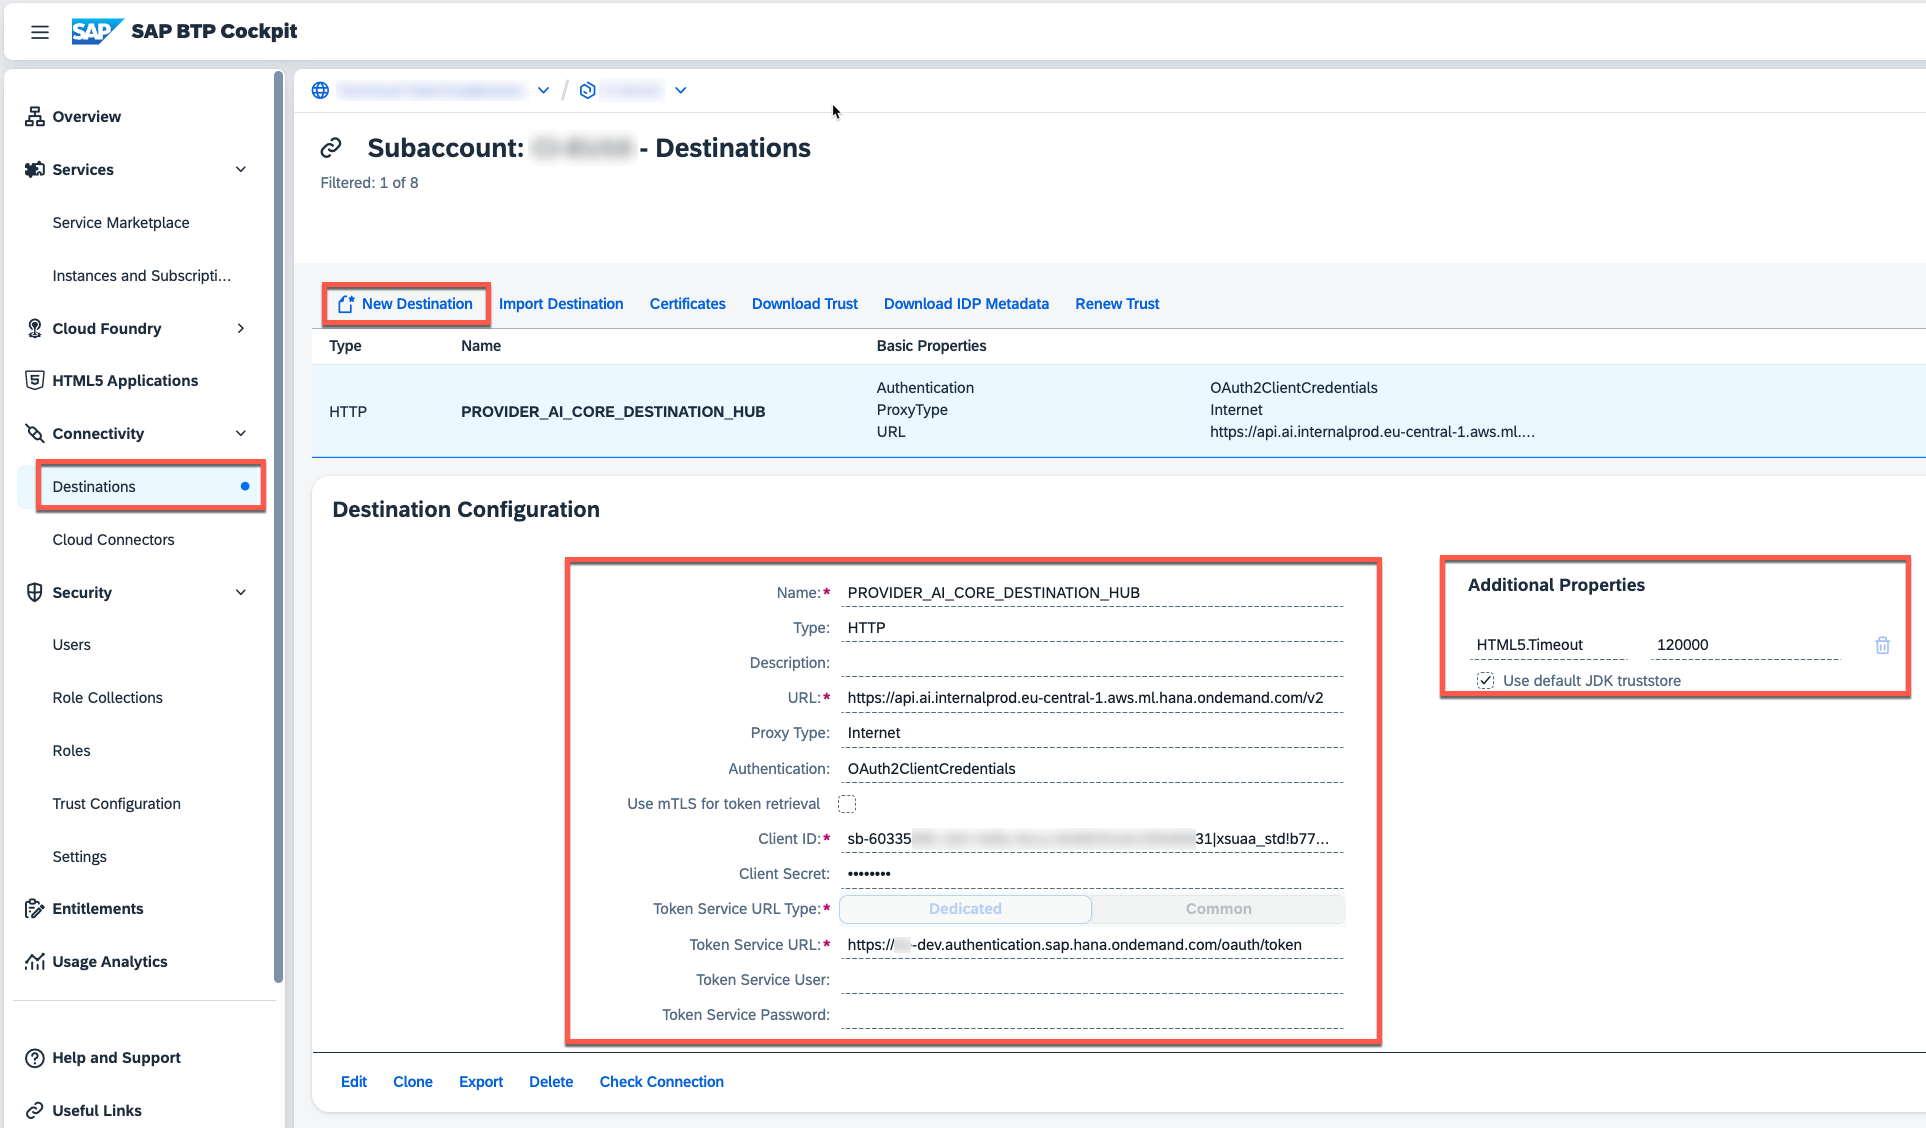
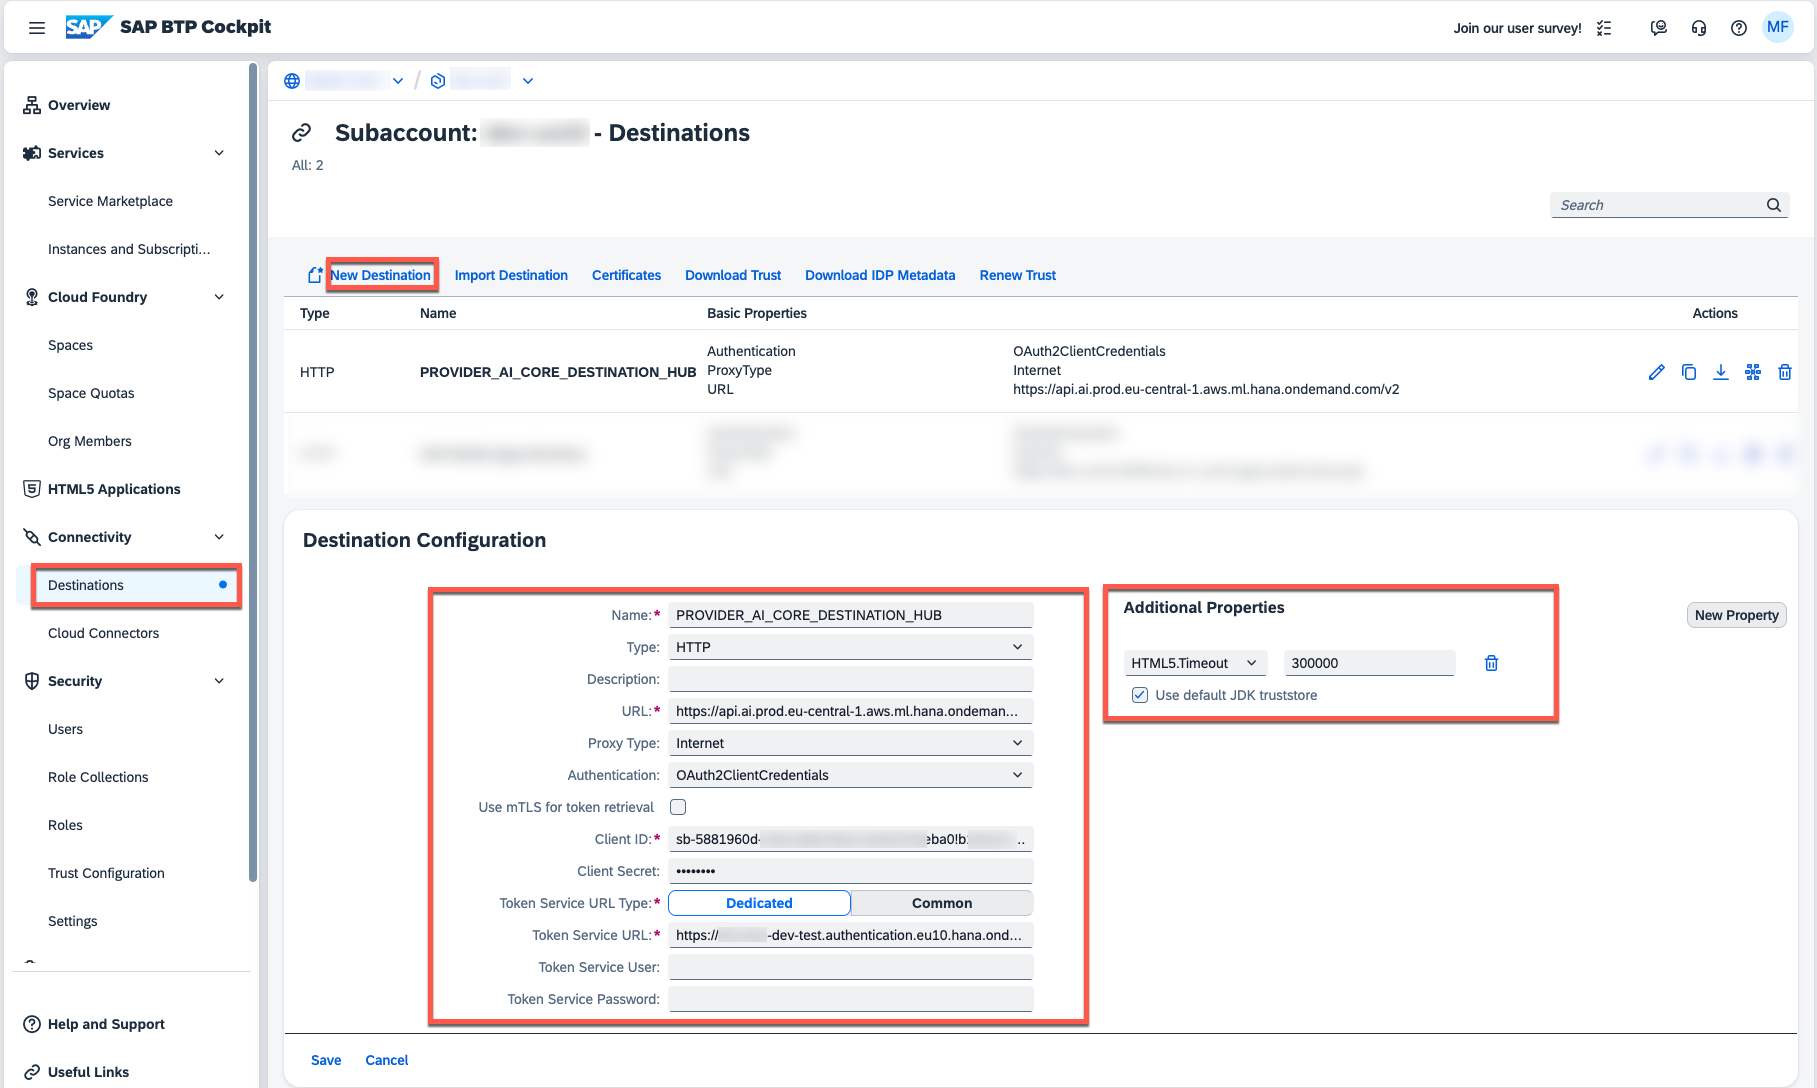
Update docu after end-to-end testing

diff --git a/docs/tutorial/2-setup/3-SAPHANACloud.md b/docs/tutorial/2-setup/3-SAPHANACloud.md
@@ -8,12 +8,45 @@ To do so, please follow the respective SAP HANA Academy tutorial and official SA
 
 [SAP Help | Map an SAP HANA Database to another Environment Context](https://help.sap.com/docs/hana-cloud/sap-hana-cloud-administration-guide/map-sap-hana-database-to-another-environment-context)
 
-## Create a new Instance
+## Setup your preferred SAP BTP Runtime
 
-Create a Subscription of the SAP HANA Cloud Tools, assign the role collections to your user and create a new SAP HANA Cloud instance using the Subscription interface. Please ensure this SAP HANA Cloud Instance is shared with your Kyma Cluster/Namespace or Cloud Foundry Org/Space. 
+Before you setup a SAP HANA Cloud instance or map an existing instance, please ensure you have setup your preferred runtime. For this sample scenario, you can choose between the SAP BTP, Cloud Foundry or SAP BTP, Kyma Runtime. If you follow the Cloud Foundry path, please make sure to also create a **Space** after setting up the runtime. The Kyma Runtime comes with a **default** namespace. 
 
-## Share an existing Instance
+> **Important** - In a Free Tier scenario, please ensure to select the **free** service plan! 
 
-Switch to the SAP BTP Subaccount hosting your SAP HANA Cloud instance and use the SAP HANA Cloud Tools, to share the instance with your new Cloud Foundry Org/Space respectively your Kyma Cluster/Namespace. 
+[<img src="./images/BTP_Runtime01.png" height="200"/>](./images/BTP_Runtime01.png?raw=true)
+[<img src="./images/BTP_Runtime02.png" height="200"/>](./images/BTP_Runtime02.png?raw=true)
+[<img src="./images/BTP_Runtime03.png" height="200"/>](./images/BTP_Runtime03.png?raw=true)
+[<img src="./images/BTP_Runtime04.png" height="200"/>](./images/BTP_Runtime04.png?raw=true)
 
 
+## Create a new SAP HANA Cloud Instance 
+
+Create a Subscription of the SAP HANA Cloud Tools, assign the role collections to your user and create a new SAP HANA Cloud instance using the Subscription interface. After creating the SAP HANA Cloud instance, please continue with the next step to share / map it to your SAP BTP, Cloud Foundry or SAP BTP, Kyma Runtime. 
+
+[<img src="./images/HC_CreateInstance01.png" height="200"/>](./images/HC_CreateInstance01.png?raw=true)
+[<img src="./images/HC_CreateInstance02.png" height="200"/>](./images/HC_CreateInstance02.png?raw=true)
+[<img src="./images/HC_CreateInstance03.png" height="200"/>](./images/HC_CreateInstance03.png?raw=true)
+[<img src="./images/HC_CreateInstance04.png" height="200"/>](./images/HC_CreateInstance04.png?raw=true)
+[<img src="./images/HC_CreateInstance05.png" height="200"/>](./images/HC_CreateInstance05.png?raw=true)
+[<img src="./images/HC_CreateInstance06.png" height="200"/>](./images/HC_CreateInstance06.png?raw=true)
+[<img src="./images/HC_CreateInstance07.png" height="200"/>](./images/HC_CreateInstance07.png?raw=true)
+[<img src="./images/HC_CreateInstance08.png" height="200"/>](./images/HC_CreateInstance08.png?raw=true)
+[<img src="./images/HC_CreateInstance09.png" height="200"/>](./images/HC_CreateInstance09.png?raw=true)
+[<img src="./images/HC_CreateInstance10.png" height="200"/>](./images/HC_CreateInstance010.png?raw=true)
+[<img src="./images/HC_CreateInstance11.png" height="200"/>](./images/HC_CreateInstance011.png?raw=true)
+
+
+## Share/Map an existing SAP HANA Cloud Instance
+
+Switch to the SAP BTP Subaccount hosting your SAP HANA Cloud instance and use the SAP HANA Cloud Tools, to share the instance with your new Cloud Foundry Org/Space respectively your Kyma Cluster/Namespace. Click [here](https://help.sap.com/docs/hana-cloud/sap-hana-cloud-administration-guide/map-sap-hana-database-to-another-environment-context) for more details on how to setup the respective mapping. 
+
+[<img src="./images/HC_MapInstance01.png" height="200"/>](./images/HC_MapInstance01.png?raw=true)
+[<img src="./images/HC_MapInstance02.png" height="200"/>](./images/HC_MapInstance02.png?raw=true)
+[<img src="./images/HC_MapInstance03.png" height="200"/>](./images/HC_MapInstance03.png?raw=true)
+[<img src="./images/HC_MapInstance04.png" height="200"/>](./images/HC_MapInstance04.png?raw=true)
+[<img src="./images/HC_MapInstance05.png" height="200"/>](./images/HC_MapInstance05.png?raw=true)
+[<img src="./images/HC_MapInstance06.png" height="200"/>](./images/HC_MapInstance06.png?raw=true)
+[<img src="./images/HC_MapInstance07.png" height="200"/>](./images/HC_MapInstance07.png?raw=true)
+[<img src="./images/HC_MapInstance08.png" height="200"/>](./images/HC_MapInstance08.png?raw=true)
+[<img src="./images/HC_MapInstance09.png" height="200"/>](./images/HC_MapInstance09.png?raw=true)

diff --git a/docs/tutorial/4-test/3-PushSampleMails.md b/docs/tutorial/4-test/3-PushSampleMails.md
@@ -4,13 +4,15 @@ In this chapter you will learn, how SaaS Subscribers can push sample mails to th
 
 1. Find the provided **http** sample file **requests-btp.http** ([click here](../../../code/test/http/requests-btp.http)), containing a few test mails for processing. 
    
+   > **Hint** - You might need to install the **REST Client** extension in your development environment!
+   
 2. Cope and rename the file to **requests-btp-private.http** to ensure that your credentials are not accidentally being committed to GitHub. 
 
     [<img src="./images/TEST_PrivateFile.png" width="300"/>](./images/TEST_PrivateFile.png?raw=true)
 
-3. Update the variables in the very beginning of the **http** test file. In a multitenant scenario, you can find the required values in the **Service Binding** which you created in the previous step of this section. 
+3. Update the variables in the very beginning of the **http** test file. In a multitenant scenario, you can find the required values in the **Service Binding** which you created in the **Create API Service** ([click here](./2-CreateAPIService.md)) chapter of this tutorial. 
    
-   > **Important** - In a single tenant setup, you can just use an existing Service Binding or new Service Key of your **xsuaa** instance and use the default **Cloud Foundry Route** or **Virtual Service** created for your CAP Application as *btpAppHostname* value. 
+   > **Important** - In a single tenant setup, you can just use an existing Service Binding or new Service Key of your **xsuaa** service instance and use the default **Cloud Foundry Route** or **Kyma Virtual Service** created for your CAP Application as *btpAppHostname* value. 
 
     ```md
     @xsuaaHostname = <uaa.url>
@@ -35,15 +37,15 @@ In this chapter you will learn, how SaaS Subscribers can push sample mails to th
     &grant_type=client_credentials
     ```
 
-5. Once you successfully retrieved a token issued by XSUAA, please scroll down and execute the **ADD MAILS** request. The request will automatically inject the token retrieved from XSUAA. 
+5. Once you successfully retrieved a token issued by XSUAA, please scroll down and execute the **ADD MAILS I** request. The processing will take a while, so please wait until the request returns a result. The request will automatically inject the token retrieved from XSUAA. 
    
    > **Important** - For single-tenant scenarios, please use the **odata/v4/mail-insights** path instead of the **rest/api/mail-insights** path as indicated below. 
 
     ```http
-    ### ADD MAILS
+    ### ADD MAILS I
     @token = {{getXsuaaToken.response.body.$.access_token}}
 
-    # @name addMails
+    # @name addMailsI
     POST {{btpAppHostname}}/rest/api/mail-insights/addMails
     content-type: application/json
     Authorization: Bearer {{token}}
@@ -58,5 +60,6 @@ In this chapter you will learn, how SaaS Subscribers can push sample mails to th
         ...
     ```
 
-6. Once the sample e-mails have been processes successfully, you should see them within your SaaS application. Furthermore, check the chapter on **Extending** the solution to learn how to check the processed e-mails within your PostgreSQL database. 
+6. Continue with the **ADD MAILS II** and **ADD MAILS III** requests to add further sample mails to your application. Injecting the sample mails has been split into three parts, given the token limit of the Large Language Model being used. Please ensure to run the three **ADD MAILS** requests sequentially. 
 
+7. Once all sample e-mails have been processes successfully, please continue with the next chapter to assign the required role collection before opening the GenAI Mail Insights application.

diff --git a/docs/tutorial/2-setup/4-generativeAIhub.md b/docs/tutorial/2-setup/4-generativeAIhub.md
@@ -12,17 +12,17 @@ The generative AI hub which is part of the SAP AI Core offering, allows you to c
 
 2. In your subaccount, please create a new service instance for the SAP AI Core **sap-internal** service entitlement. 
 
->**Hint** - In our scenario we are using the **Other** environment type, as we are consuming the SAP AI Core APIs via a dedicated destination. Alternatively, you can also use the **Cloud Foundry** or **Kyma** environment and **bind** the service instance. 
+    > **Hint** - In our scenario we are using the **Other** environment type, as we are consuming the SAP AI Core APIs via a dedicated destination. Alternatively, you can also use the **Cloud Foundry** or **Kyma** environment and **bind** the service instance. 
 
-  [<img src="./images/GAH_CreateInstance01.png" width="400"/>](./images/GAH_CreateInstance01.png?raw=true)
+    [<img src="./images/GAH_CreateInstance01.png" width="500"/>](./images/GAH_CreateInstance01.png?raw=true)
 
 3. Create a new **Service Binding** for the SAP AI Core **sap-internal** service instance, which will be used by our sample application. 
 
-  [<img src="./images/GAH_CreateInstance02.png" width="400"/>](./images/GAH_CreateInstance02.png?raw=true)
+    [<img src="./images/GAH_CreateInstance02.png" width="400"/>](./images/GAH_CreateInstance02.png?raw=true)
 
 4. Download the generated Service Binding details or copy the values for your reference.
 
-  [<img src="./images/GAH_CreateInstance03.png" width="400"/>](./images/GAH_CreateInstance03.png?raw=true)
+    [<img src="./images/GAH_CreateInstance03.png" width="400"/>](./images/GAH_CreateInstance03.png?raw=true)
 
 
 ## Create Destination
@@ -36,14 +36,14 @@ Create a new destination in your Provider Subaccount using the Service Binding d
 ```html
 Name=PROVIDER_AI_CORE_DESTINATION_HUB
 Type=HTTP
+URL=<serviceurls.AI_API_URL>/v2
+ProxyType=Internet
+Authentication=OAuth2ClientCredentials
 clientId=<clientid>
 clientSecret=<cliensecret>
-Authentication=OAuth2ClientCredentials
 tokenServiceURL=<url>/oauth/token
-ProxyType=Internet
-URL=<serviceurls.AI_API_URL>/v2
 tokenServiceURLType=Dedicated
-HTML5.Timeout=120000
+HTML5.Timeout=300000
 ```
 
 ## Configure the generative AI hub (single-tenant)

diff --git a/docs/tutorial/3-deploy/2-DeployTheApplication.md b/docs/tutorial/3-deploy/2-DeployTheApplication.md
@@ -38,9 +38,9 @@ The deployment process in Kyma requires you to use a helm-based deployment appro
       * shootName - The unique shoot name of your Kyma Cluster.
         > **Hint** - To get the **shootName** of your Kyma Cluster, run the following kubectl command:  
         > 
-        >```kubectl get configMaps/shoot-info -n kube-system -o jsonpath='{.data.shootName}'```.<br> 
+        >```kubectl get configMaps/shoot-info -n kube-system -o jsonpath='{.data.shootName}'```<br> 
         > 
-        > In a productive SAP BTP landscape, your **shootName** will always starts with a letter like *a1b2c3* or with the prefix **c-** like c-1b2c3d4*. 
+        > In a productive SAP BTP landscape, your **shootName** will always starts with a letter like *a1b2c3* or with the prefix **c-** like c-1b2c3d4. 
     </details>
 
     <details>
@@ -69,13 +69,15 @@ The deployment process in Kyma requires you to use a helm-based deployment appro
 
       * image.repository - Registry details of your **API Service Broker** Container Image repository like \<username>/aisaas-broker.
       * image.tag - Provide the tag of your container image if you do not want to use the latest image.
-      * config.serviceId & planId(s) - Generate and provide unique GUIDs for your service plans and the broker itself. 
+      * config.serviceId & planId(s) - Generate and provide unique GUIDs for your service plans and the broker itself. You can also use any other command-line tool or your favorite online service to generate your own GUID values.
 
           > **Important** - Run the following script which will generate new GUIDs in a new */code/broker/catalog-private.json* file.<br>
           > 
           > **Run in ./multi-tenant/code/broker**
           > ```sh 
           > # Execute in ./multi-tenant/code/broker #
+          > cd ../../multi-tenant/code/broker # if necessary
+          >
           > cp catalog.json catalog-private.json
           > npx --yes -p @sap/sbf gen-catalog-ids catalog-private.json
           > cat catalog-private.json

diff --git a/docs/tutorial/3-deploy/1-BuildTheComponents.md b/docs/tutorial/3-deploy/1-BuildTheComponents.md
@@ -21,6 +21,7 @@ In Kyma, you must build container images for the components of this sample scena
 
     ```sh
     git clone https://github.com/SAP-samples/btp-cap-genai-rag
+    cd btp-cap-genai-rag
     ```
 
 2. Please switch to the *(single/multi)-tenant/deploy/kyma* directory. 
@@ -63,6 +64,7 @@ In Kyma, you must build container images for the components of this sample scena
     npx cross-env IMAGE_PREFIX=sap-demo npm run build:all
     ```
 
+7. If you are facing the following error during the build process, please install the  
 
 7. Once your Container Images are built, please push them to your container registry by running the following command. 
 
@@ -135,6 +137,7 @@ In Kyma, you must build container images for the components of this sample scena
             {
               "broker-user": "sha256:0vsw3...bPwNwUc9WM=:5osh6/uiq...LcE9T0="
             }
+        SBF_CATALOG_FILE: ./catalog-private.json
     ```
 
 7. If you want to use an **existing PostgreSQL instance** please update the **free-tier-private.mtaext** file as depicted below. The existing service instance is named **my-postgresql-db** in this scenario. 

diff --git a/docs/tutorial/3-deploy/3-EnablePgVector.md b/docs/tutorial/3-deploy/3-EnablePgVector.md
@@ -12,7 +12,11 @@ Further details can be found in the official SAP Help documentation. The **Postg
 
 [SAP Help | Using the ‘PostgreSQL, Hyperscaler Option’ Extension APIs for Kyma](https://help.sap.com/docs/postgresql-hyperscaler-option/postgresql-on-sap-btp-hyperscaler-option/using-postgresql-hyperscaler-option-extension-apis-for-kyma?locale=en-US)
 
-1. Create a new **Service Binding** for your **PostgreSQL on SAP BTP, hyperscaler option** service instance in your **Kyma Dashboard**.
+1. Create a new **X.509-based Service Binding** for your **PostgreSQL on SAP BTP, hyperscaler option** service instance in your **Kyma Dashboard**.
+   
+   > **Important** - Make sure to use the **Advanced** options to add the **credential-type** property as visible in the following screenshot!
+   
+    > **Hint** - Please keep in mind that your PostgreSQL service instance will be named differently based on your helm installation details e.g., **aisaas-postgresql-db**. 
 
     [<img src="./images/PGExt_KymaBinding.png" width="400"/>](./images/PGExt_KymaBinding.png?raw=true)
 

diff --git a/docs/tutorial/4-test/4-TestApplication.md b/docs/tutorial/4-test/4-TestApplication.md
@@ -24,4 +24,6 @@ In this part of the tutorial, you will learn how to test the GenAI Mail Insights
 
 4. In the application, you will see the pre-processed sample e-mails. 
 
+    [<img src="./images/TEST_AppResult.png" width="500"/>](./images/TEST_AppResult.png?raw=true)
+
 5. You can now select one of the mails in the list and check out the different features offered by the GenAI Mail Insights Sample application.

diff --git a/docs/tutorial/2-setup/1-SubaccountSetup.md b/docs/tutorial/2-setup/1-SubaccountSetup.md
@@ -11,11 +11,11 @@ Create a new Subaccount in your SAP BTP Cockpit, which will act as SaaS Provider
 
 ## SAP BTP, Cloud Foundry Runtime
 
-- **free** plan not available in eu10
+- **free** plan **not** available in eu10
 
 ## SAP HANA Cloud
 
-- **free** plan not available in eu10
+- **free** plan **not** available in eu10
 
 ## SAP AI Core
 
